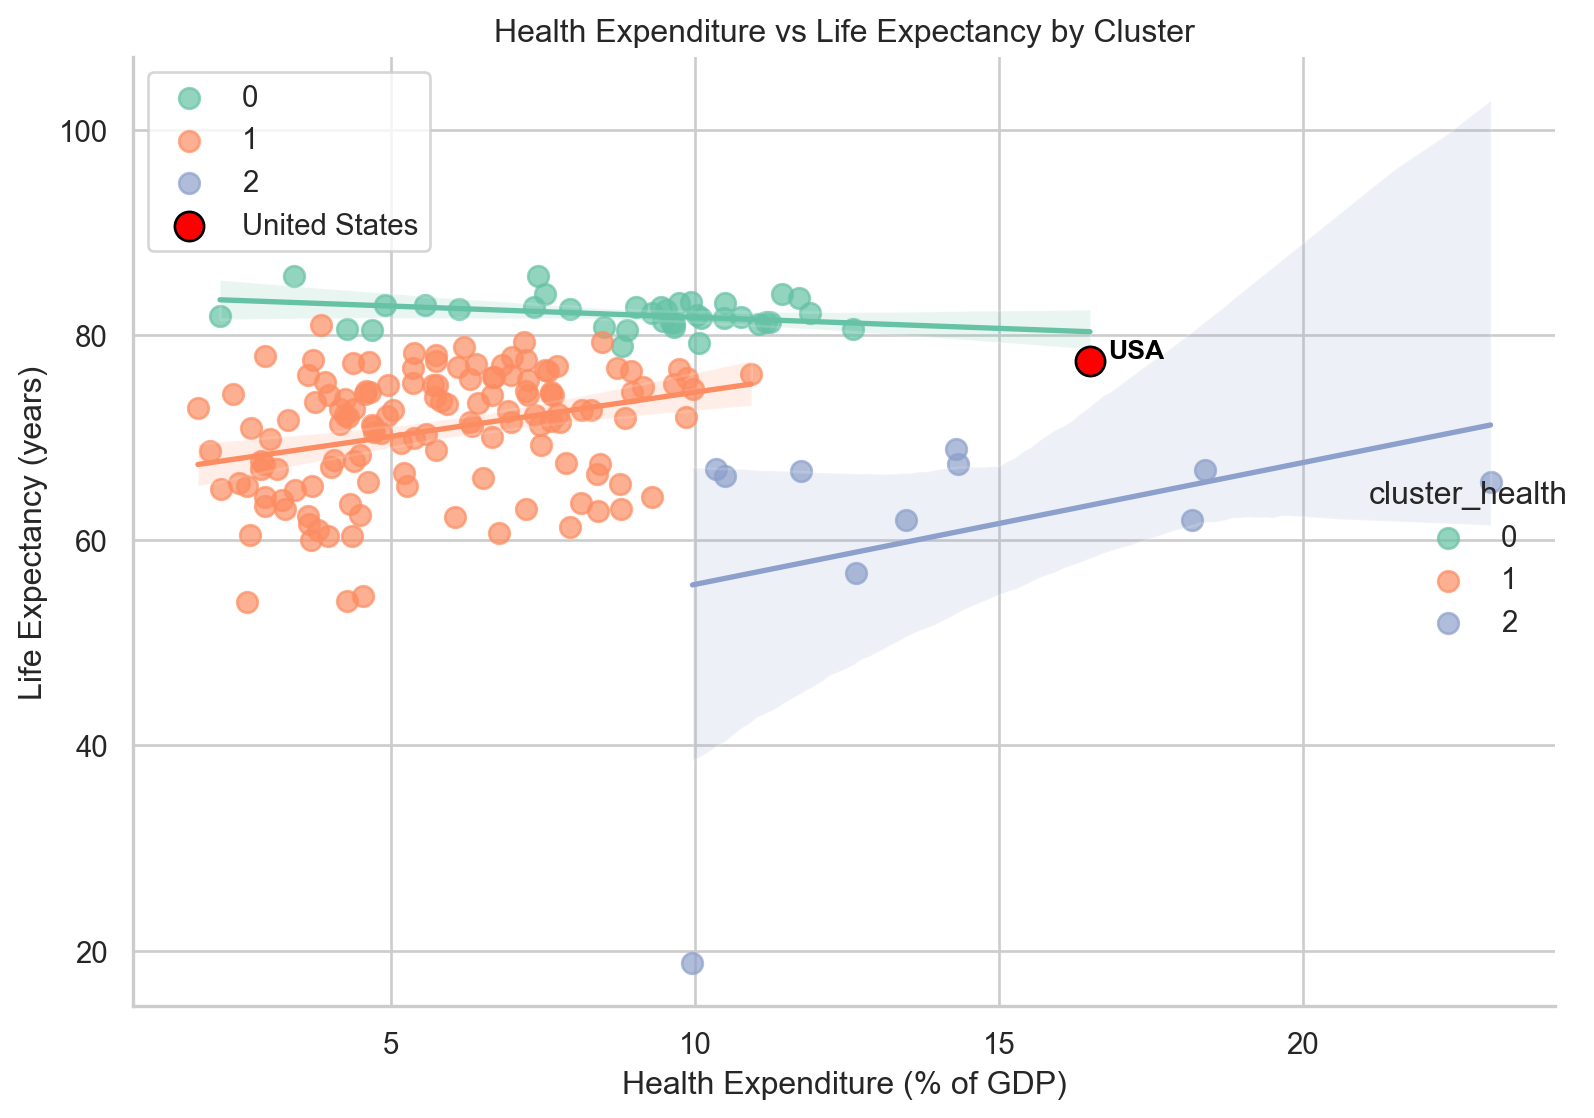
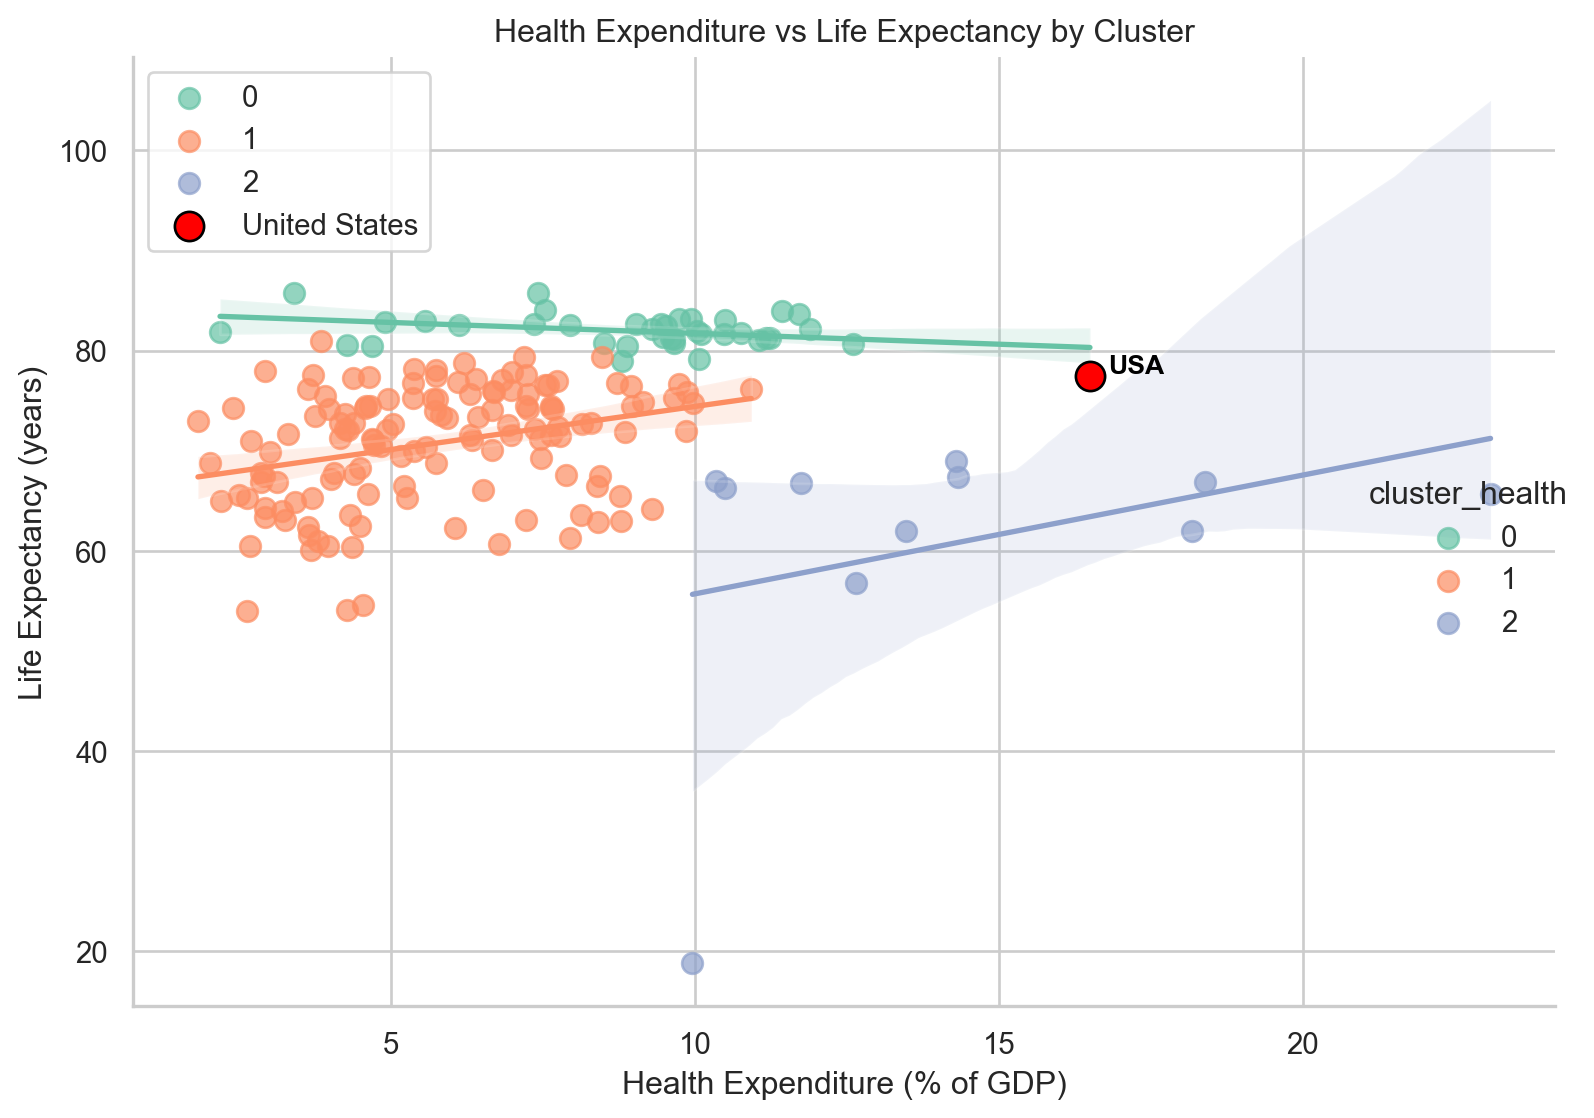
format

diff --git a/presentation.html b/presentation.html
@@ -180,9 +180,9 @@ Laura Zang
 <h2>Data Overview</h2>
 <p>We analyze three core indicators:</p>
 <ul>
-<li class="fragment"><p>GDP per Capita (US$)</p></li>
-<li class="fragment"><p>Life Expectancy (years)</p></li>
-<li class="fragment"><p>Healthcare Expenditure (% of GDP)</p></li>
+<li class="fragment">GDP per Capita (US$)</li>
+<li class="fragment">Life Expectancy (years)</li>
+<li class="fragment">Healthcare Expenditure (% of GDP)</li>
 </ul>
 <div class="cell" data-execution_count="2">
 <div id="tbl-summary-stats" class="cell quarto-float quarto-figure quarto-figure-center" data-execution_count="2">
@@ -191,7 +191,7 @@ Laura Zang
 Table&nbsp;1
 </figcaption>
 <div aria-describedby="tbl-summary-stats-caption-0ceaefa1-69ba-4598-a22c-09a6ac19f8ca">
-<div class="cell-output cell-output-display" data-execution_count="16">
+<div class="cell-output cell-output-display" data-execution_count="2">
 <div>
 <style scoped="">
     .dataframe tbody tr th:only-of-type {
@@ -287,7 +287,7 @@ Table&nbsp;1
 Table&nbsp;2
 </figcaption>
 <div aria-describedby="tbl-correlations-caption-0ceaefa1-69ba-4598-a22c-09a6ac19f8ca">
-<div class="cell-output cell-output-display" data-execution_count="17">
+<div class="cell-output cell-output-display" data-execution_count="3">
 <div>
 <style scoped="">
     .dataframe tbody tr th:only-of-type {
@@ -356,7 +356,7 @@ Table&nbsp;2
 <div id="fig-pairwise" class="quarto-float quarto-figure quarto-figure-center">
 <figure class="quarto-float quarto-float-fig">
 <div aria-describedby="fig-pairwise-caption-0ceaefa1-69ba-4598-a22c-09a6ac19f8ca">
-<img data-src="presentation_files/figure-revealjs/fig-pairwise-output-1.png" width="567" height="567">
+<img data-src="presentation_files/figure-revealjs/fig-pairwise-output-1.png" width="570" height="570">
 </div>
 <figcaption class="quarto-float-caption-bottom quarto-float-caption quarto-float-fig" id="fig-pairwise-caption-0ceaefa1-69ba-4598-a22c-09a6ac19f8ca">
 Figure&nbsp;1: Pairwise relationships among GDP per capita, life expectancy, and health expenditure (% of GDP).
@@ -439,37 +439,37 @@ Figure&nbsp;3: Clusters of countries based on health expenditure (% of GDP) and 
 Table&nbsp;3: Comparison of the United States with global and high-income averages. Source: World Bank WDI (2023).
 </figcaption>
 <div aria-describedby="tbl-usa-comparison-caption-0ceaefa1-69ba-4598-a22c-09a6ac19f8ca">
-<div class="cell-output cell-output-display" data-execution_count="21">
+<div class="cell-output cell-output-display" data-execution_count="7">
 <style type="text/css">
 </style>
 
-<table id="T_34042" class="do-not-create-environment cell caption-top">
+<table id="T_4b289" class="do-not-create-environment cell caption-top">
 <thead>
 <tr class="header">
-<th id="T_34042_level0_col0" class="col_heading level0 col0" data-quarto-table-cell-role="th">Indicator</th>
-<th id="T_34042_level0_col1" class="col_heading level0 col1" data-quarto-table-cell-role="th">United States</th>
-<th id="T_34042_level0_col2" class="col_heading level0 col2" data-quarto-table-cell-role="th">High-income avg</th>
-<th id="T_34042_level0_col3" class="col_heading level0 col3" data-quarto-table-cell-role="th">Global avg</th>
+<th id="T_4b289_level0_col0" class="col_heading level0 col0" data-quarto-table-cell-role="th">Indicator</th>
+<th id="T_4b289_level0_col1" class="col_heading level0 col1" data-quarto-table-cell-role="th">United States</th>
+<th id="T_4b289_level0_col2" class="col_heading level0 col2" data-quarto-table-cell-role="th">High-income avg</th>
+<th id="T_4b289_level0_col3" class="col_heading level0 col3" data-quarto-table-cell-role="th">Global avg</th>
 </tr>
 </thead>
 <tbody>
 <tr class="odd">
-<td id="T_34042_row0_col0" class="data row0 col0">GDP per capita (US$)</td>
-<td id="T_34042_row0_col1" class="data row0 col1">77,860.91</td>
-<td id="T_34042_row0_col2" class="data row0 col2">69255.110000</td>
-<td id="T_34042_row0_col3" class="data row0 col3">21,175.31</td>
+<td id="T_4b289_row0_col0" class="data row0 col0">GDP per capita (US$)</td>
+<td id="T_4b289_row0_col1" class="data row0 col1">77,860.91</td>
+<td id="T_4b289_row0_col2" class="data row0 col2">69255.110000</td>
+<td id="T_4b289_row0_col3" class="data row0 col3">21,175.31</td>
 </tr>
 <tr class="even">
-<td id="T_34042_row1_col0" class="data row1 col0">Life expectancy (years)</td>
-<td id="T_34042_row1_col1" class="data row1 col1">77.43</td>
-<td id="T_34042_row1_col2" class="data row1 col2">81.280000</td>
-<td id="T_34042_row1_col3" class="data row1 col3">73.11</td>
+<td id="T_4b289_row1_col0" class="data row1 col0">Life expectancy (years)</td>
+<td id="T_4b289_row1_col1" class="data row1 col1">77.43</td>
+<td id="T_4b289_row1_col2" class="data row1 col2">81.280000</td>
+<td id="T_4b289_row1_col3" class="data row1 col3">73.11</td>
 </tr>
 <tr class="odd">
-<td id="T_34042_row2_col0" class="data row2 col0">Health expenditure (% of GDP)</td>
-<td id="T_34042_row2_col1" class="data row2 col1">16.50</td>
-<td id="T_34042_row2_col2" class="data row2 col2">8.410000</td>
-<td id="T_34042_row2_col3" class="data row2 col3">6.88</td>
+<td id="T_4b289_row2_col0" class="data row2 col0">Health expenditure (% of GDP)</td>
+<td id="T_4b289_row2_col1" class="data row2 col1">16.50</td>
+<td id="T_4b289_row2_col2" class="data row2 col2">8.410000</td>
+<td id="T_4b289_row2_col3" class="data row2 col3">6.88</td>
 </tr>
 </tbody>
 </table>
